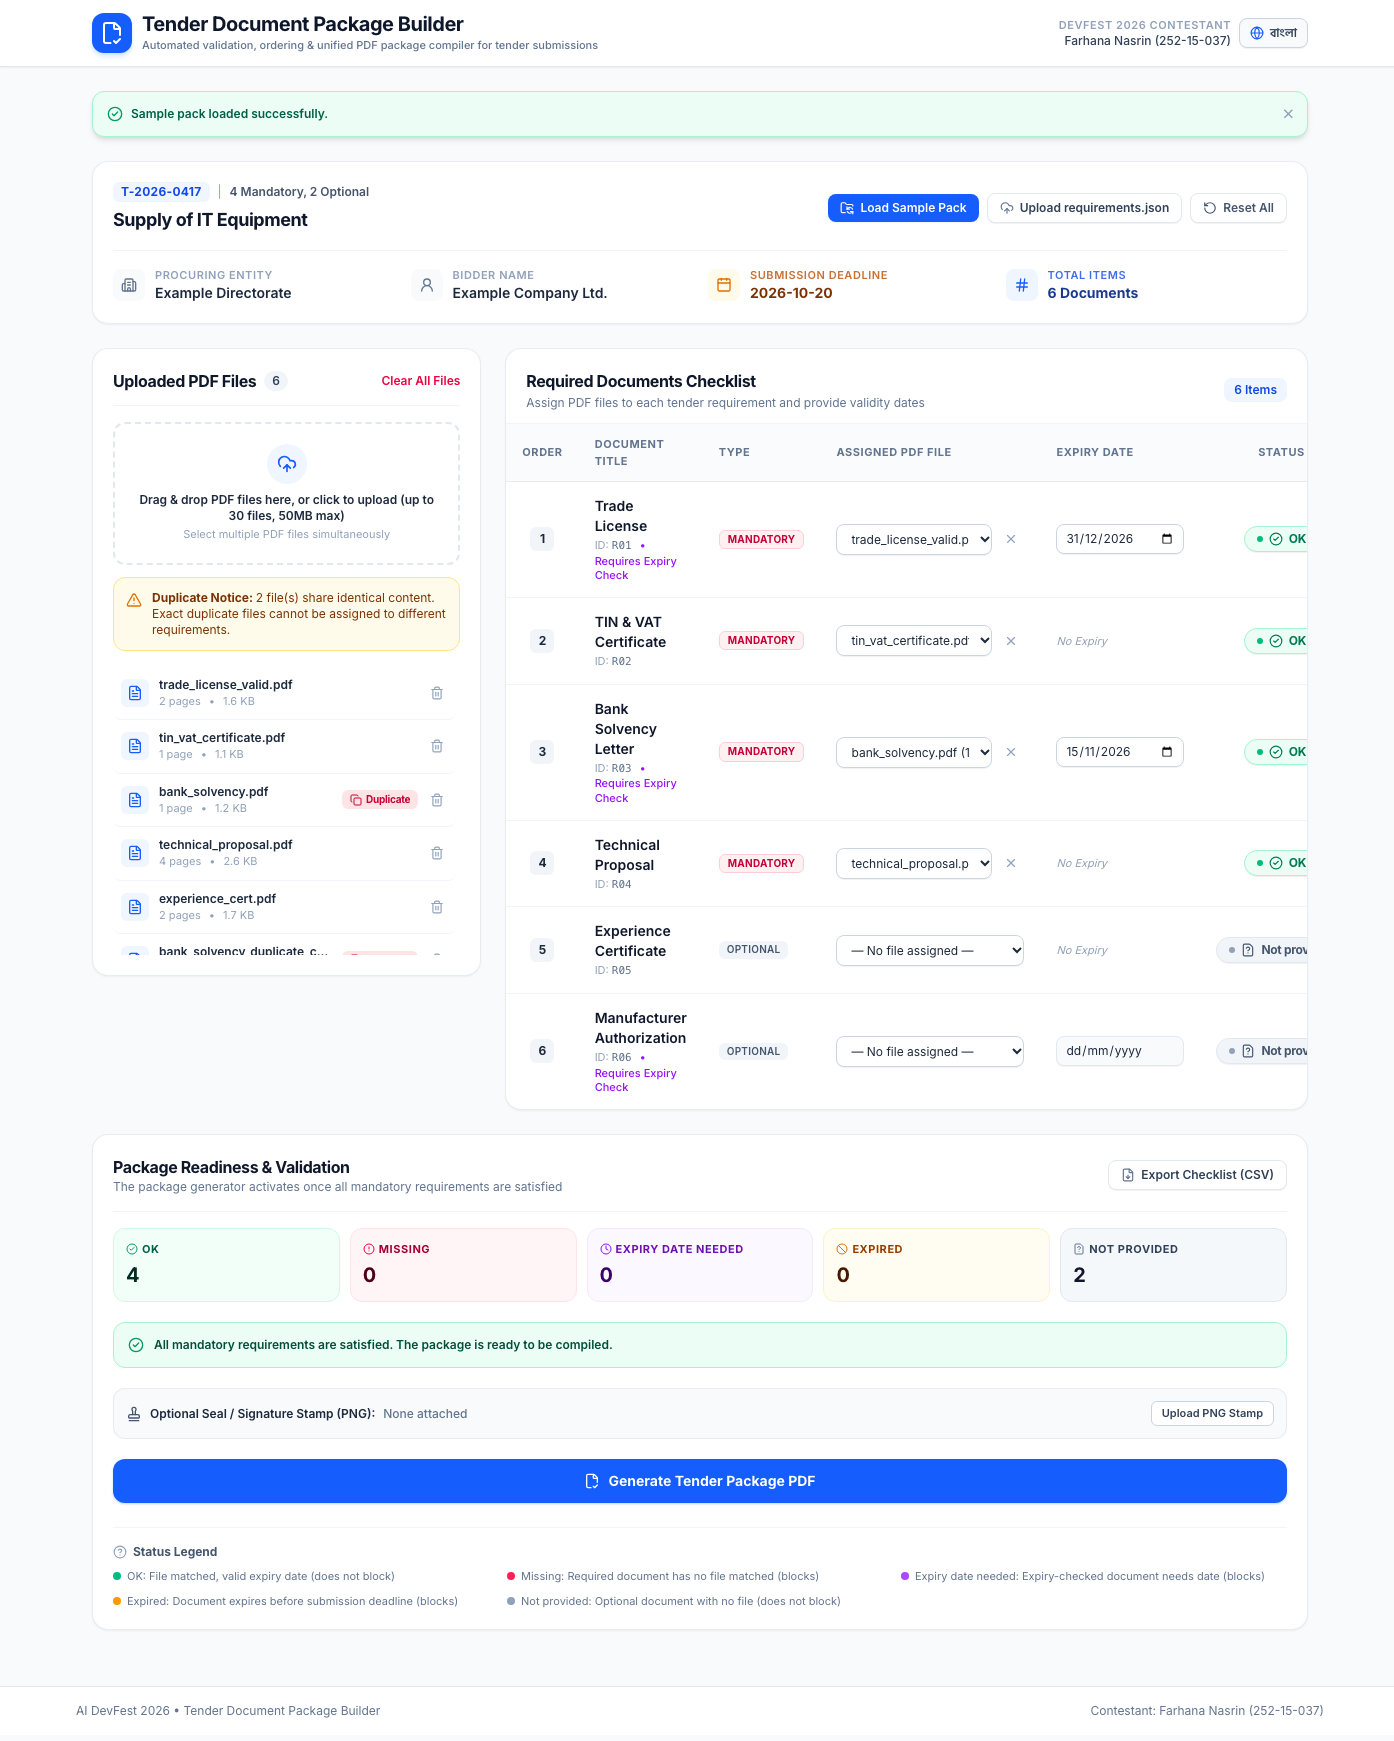
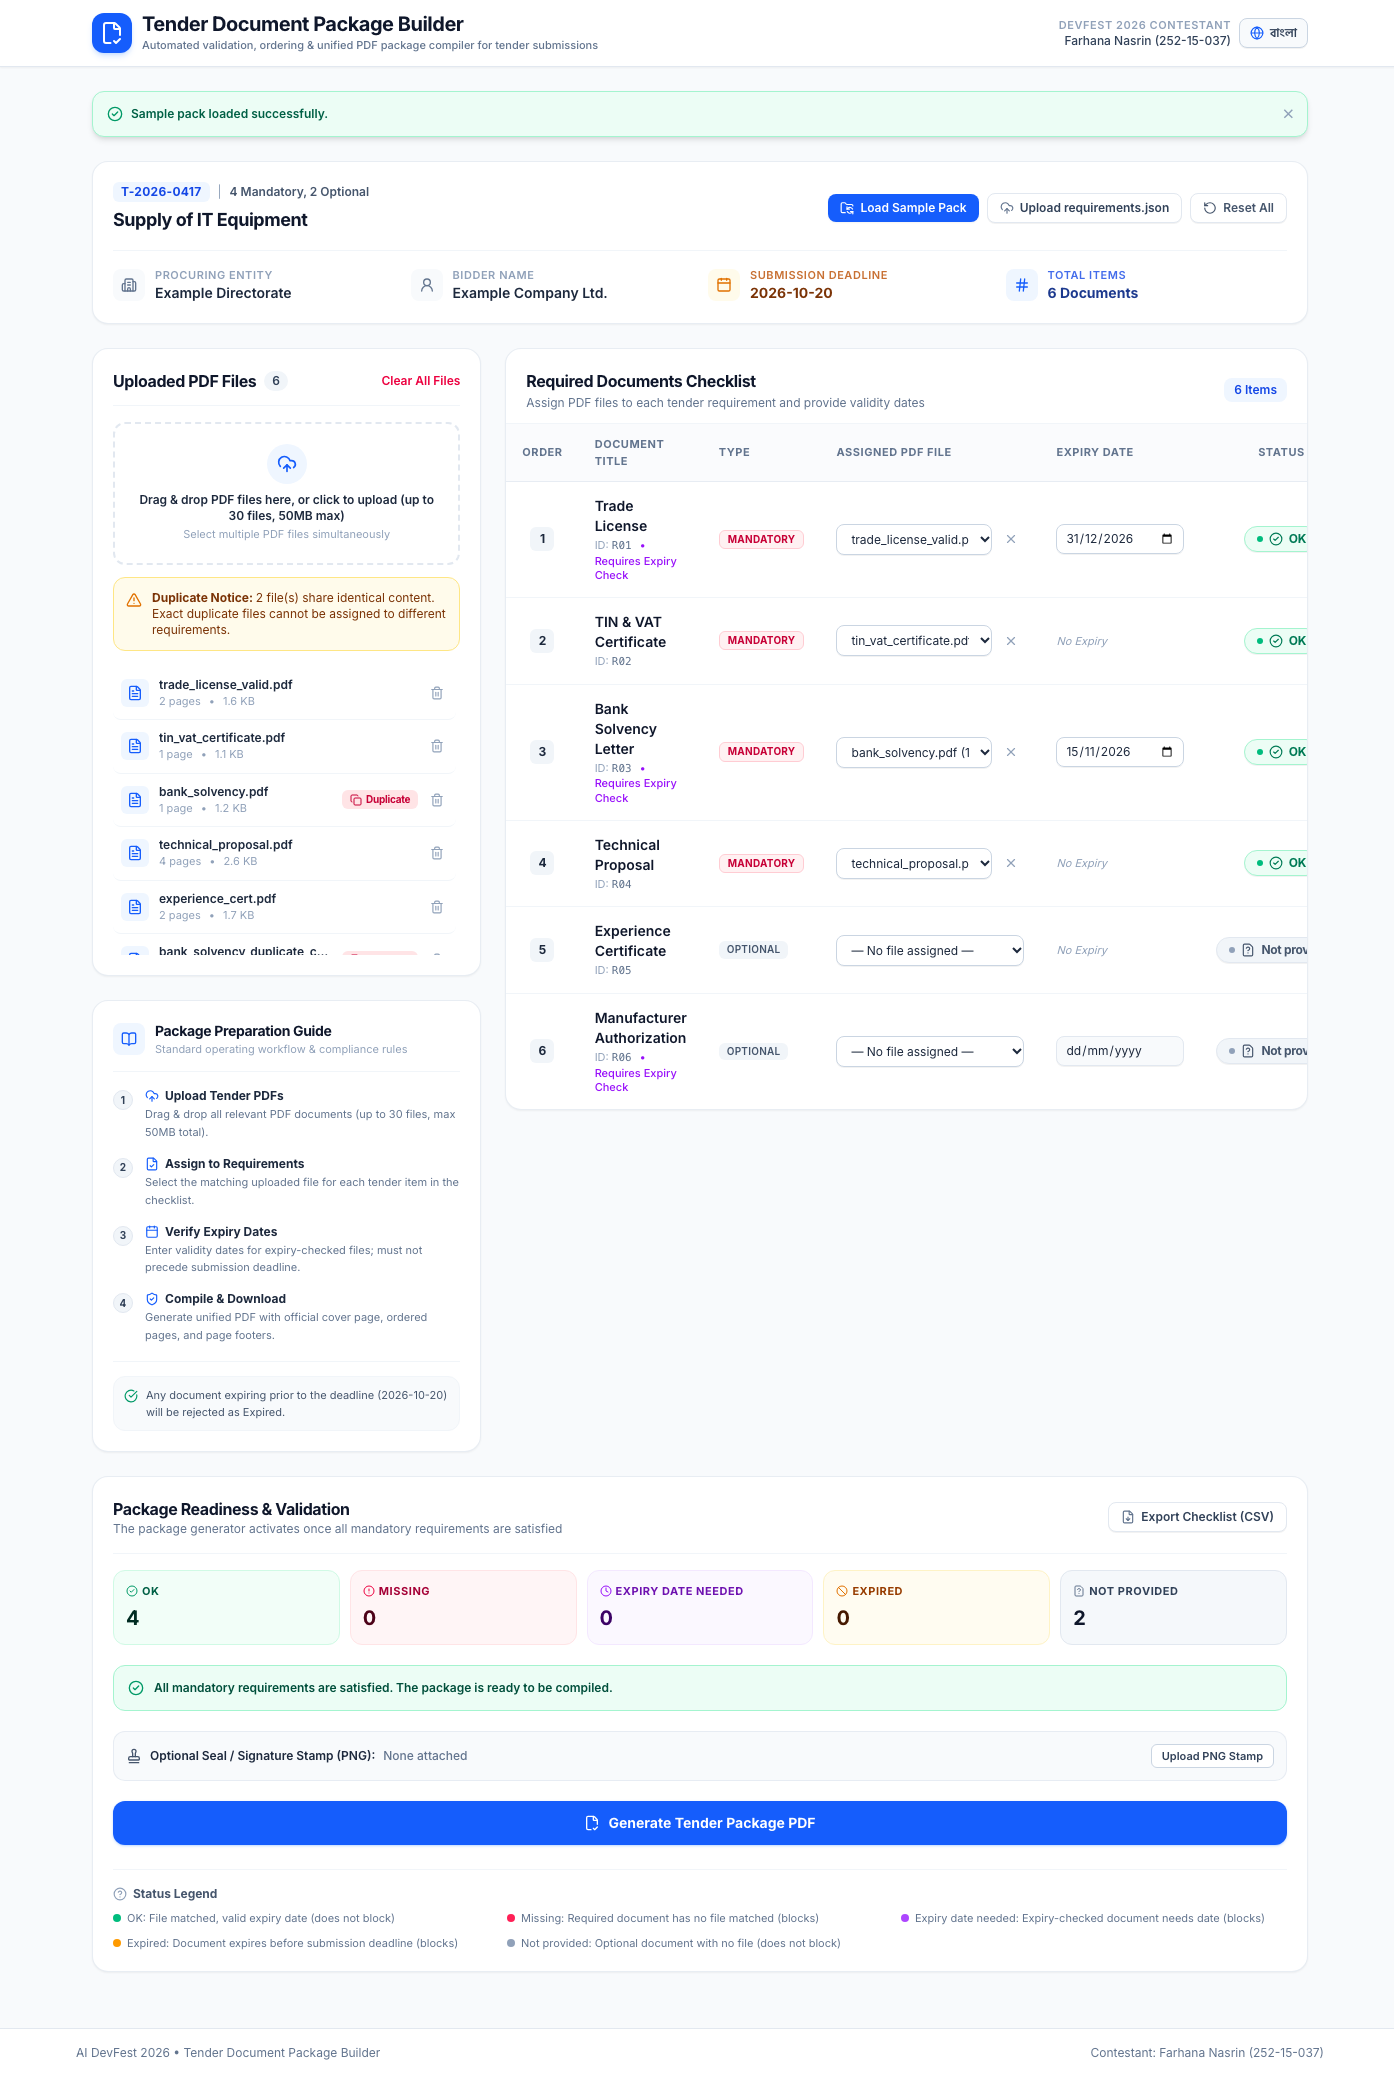
Add bilingual Submission Guidelines card to balance layout
Prompt: "mark kora place ta faka dekhte valo lagse na,,,,eta sundor kore fixed koro"
Step: Added SubmissionGuidelines component in the left column under uploaded files to balance visual height and guide users.

diff --git a/src/components/SubmissionGuidelines.jsx b/src/components/SubmissionGuidelines.jsx
@@ -1,0 +1,93 @@
+import React from 'react';
+import { BookOpen, CheckCircle, UploadCloud, FileCheck, Calendar, ShieldCheck, AlertCircle } from 'lucide-react';
+import { translations } from '../i18n/translations';
+
+export function SubmissionGuidelines({ lang, tender }) {
+  const isBn = lang === 'bn';
+
+  const steps = [
+    {
+      step: '1',
+      title: isBn ? 'পিডিএফ ফাইল আপলোড' : 'Upload Tender PDFs',
+      desc: isBn
+        ? 'দরপত্রের সকল প্রয়োজনীয় পিডিএফ ফাইল ড্র্যাগ অ্যান্ড ড্রপ করুন (সর্বোচ্চ ৩০ ফাইল, ৫০ MB)।'
+        : 'Drag & drop all relevant PDF documents (up to 30 files, max 50MB total).',
+      icon: UploadCloud,
+    },
+    {
+      step: '2',
+      title: isBn ? 'নথি অনুযায়ী সংযুক্তি' : 'Assign to Requirements',
+      desc: isBn
+        ? 'ডানপাশের তালিকা থেকে প্রতিটি নথির বিপরীতে সঠিক ফাইল নির্বাচন করুন (১ ফাইল = ১ নথি)।'
+        : 'Select the matching uploaded file for each tender item in the checklist.',
+      icon: FileCheck,
+    },
+    {
+      step: '3',
+      title: isBn ? 'মেয়াদ যাচাইকরণ' : 'Verify Expiry Dates',
+      desc: isBn
+        ? 'মেয়াদ প্রযোজ্য এমন নথির তারিখ দিন; তারিখ ডেডলাইনের সমান বা পরের হতে হবে।'
+        : 'Enter validity dates for expiry-checked files; must not precede submission deadline.',
+      icon: Calendar,
+    },
+    {
+      step: '4',
+      title: isBn ? 'প্যাকেজ তৈরি ও ডাউনলোড' : 'Compile & Download',
+      desc: isBn
+        ? 'সব শর্ত পূরণ হলে অফিসিয়াল কভার পেজ ও ফুটারসহ সমন্বিত প্যাকেজ ডাউনলোড করুন।'
+        : 'Generate unified PDF with official cover page, ordered pages, and page footers.',
+      icon: ShieldCheck,
+    },
+  ];
+
+  return (
+    <div className="bg-white rounded-2xl border border-slate-200/80 p-5 shadow-xs transition-all">
+      <div className="flex items-center gap-2.5 pb-3.5 mb-4 border-b border-slate-100">
+        <div className="w-8 h-8 rounded-lg bg-blue-50 text-blue-600 flex items-center justify-center">
+          <BookOpen className="w-4 h-4" />
+        </div>
+        <div>
+          <h3 className="text-sm font-bold text-slate-900 tracking-tight">
+            {isBn ? 'দরপত্র প্যাকেজ প্রস্তুত নির্দেশিকা' : 'Package Preparation Guide'}
+          </h3>
+          <p className="text-[11px] text-slate-400">
+            {isBn ? 'সঠিক ও গ্রহণযোগ্য প্যাকেজ তৈরির নিয়মাবলী' : 'Standard operating workflow & compliance rules'}
+          </p>
+        </div>
+      </div>
+
+      <div className="space-y-3.5">
+        {steps.map((s) => {
+          const Icon = s.icon;
+          return (
+            <div key={s.step} className="flex items-start gap-3">
+              <div className="w-5 h-5 rounded-full bg-slate-100 text-slate-700 text-[10px] font-bold flex items-center justify-center shrink-0 mt-0.5 border border-slate-200">
+                {s.step}
+              </div>
+              <div className="min-w-0">
+                <div className="text-xs font-bold text-slate-800 flex items-center gap-1.5">
+                  <Icon className="w-3.5 h-3.5 text-blue-600" />
+                  <span>{s.title}</span>
+                </div>
+                <p className="text-[11px] text-slate-500 leading-relaxed mt-0.5">
+                  {s.desc}
+                </p>
+              </div>
+            </div>
+          );
+        })}
+      </div>
+
+      <div className="mt-4 pt-3.5 border-t border-slate-100">
+        <div className="p-2.5 rounded-xl bg-slate-50 border border-slate-100 text-[11px] text-slate-600 flex items-start gap-2">
+          <CheckCircle className="w-3.5 h-3.5 text-emerald-600 shrink-0 mt-0.5" />
+          <span>
+            {isBn
+              ? `জমা দেওয়ার শেষ তারিখ (${tender.submission_deadline || '—'}) এর পূর্বে কোনো নথির মেয়াদ শেষ হলে তা গ্রহণযোগ্য হবে না।`
+              : `Any document expiring prior to the deadline (${tender.submission_deadline || '—'}) will be rejected as Expired.`}
+          </span>
+        </div>
+      </div>
+    </div>
+  );
+}

diff --git a/src/App.jsx b/src/App.jsx
@@ -6,6 +6,7 @@ import { UploadedFilesList } from './components/UploadedFilesList';
 import { RequirementsTable } from './components/RequirementsTable';
 import { PackageActions } from './components/PackageActions';
 import { PdfPreviewModal } from './components/PdfPreviewModal';
+import { SubmissionGuidelines } from './components/SubmissionGuidelines';
 
 import { validateRequirementsJson, validateUploadedFile, validateUploadLimits, findDuplicateMatchingConflicts } from './lib/validator';
 import { computeFileHash, markDuplicateFiles } from './lib/hasher';
@@ -463,13 +464,18 @@ export function App() {
         {/* Two-column layout on large screens: Uploaded Files + Requirements List */}
         <div className="grid grid-cols-1 lg:grid-cols-12 gap-6 items-start">
           {/* Uploaded Files Box (Task 4.2 & 4.6) */}
-          <div className="lg:col-span-4">
+          <div className="lg:col-span-4 space-y-6">
             <UploadedFilesList
               uploadedFiles={uploadedFiles}
               onUploadPdfs={handleUploadPdfs}
               onRemoveFile={handleRemoveFile}
               onClearAll={handleClearAllFiles}
               lang={lang}
+            />
+
+            <SubmissionGuidelines
+              lang={lang}
+              tender={tender}
             />
           </div>
 
